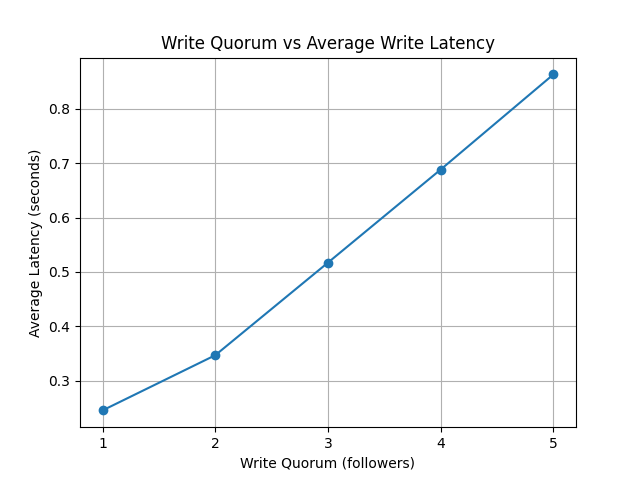
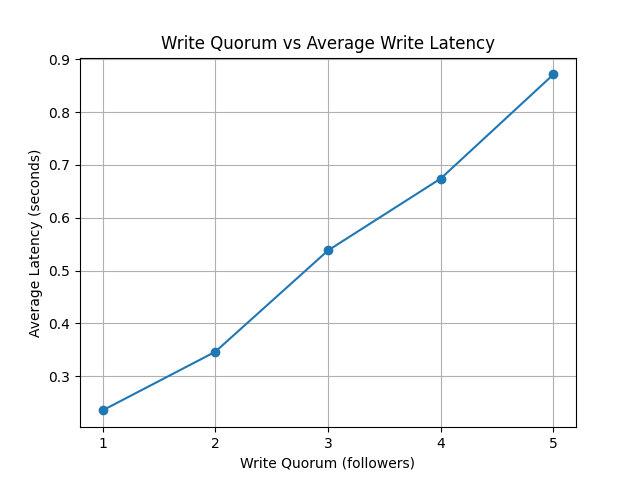
Clean code

diff --git a/LAB4/leader/leader.py b/LAB4/leader/leader.py
@@ -124,13 +124,13 @@ def replicate_to_followers(key, value, version):
             else:
                 failed_followers.append(follower_url)
         except Exception as e:
-            print(f"[REPL] Exception in replication to {follower_url}: {e}")
+            print(f"Exception in replication to {follower_url}: {e}")
             failed_followers.append(follower_url)
         
         # Once quorum is met, return immediately
         # Remaining futures continue in background
         if successful >= WRITE_QUORUM:
-            print(f"[REPL] Quorum {WRITE_QUORUM} met for {key} v{version} (checked {checked_count}/{len(FOLLOWERS)})")
+            print(f"Quorum {WRITE_QUORUM} met for {key} v{version}")
             # If there are unchecked futures, they continue in background
             # and will be tracked in all_pending_futures
             break
@@ -159,10 +159,10 @@ def wait_for_replication():
     total_futures = len(pending)
     
     if total_futures == 0 and len(to_retry) == 0:
-        print("[WAIT] No pending futures or retries")
+        print("No pending futures or retries")
         return jsonify({"status": "no pending work"}), 200
     
-    print(f"[WAIT] Waiting for {total_futures} futures, retrying {len(to_retry)} failed replications...")
+    print(f"Waiting for {total_futures} futures, retrying {len(to_retry)} failed replications...")
     
     # Wait for all pending futures
     completed = 0
@@ -187,9 +187,9 @@ def wait_for_replication():
                 retry_success += 1
             else:
                 retry_failed += 1
-                print(f"[WAIT] Failed to replicate {key} v{version} to {follower_url} after retries")
+                print(f"Failed to replicate {key} v{version} to {follower_url} after retries")
     
-    print(f"[WAIT] Done. Completed: {completed}, Failed: {failed}, Retry Success: {retry_success}, Retry Failed: {retry_failed}")
+    print(f"Done. Completed: {completed}, Failed: {failed}, Retry Success: {retry_success}, Retry Failed: {retry_failed}")
     
     return jsonify({
         "status": "complete",
